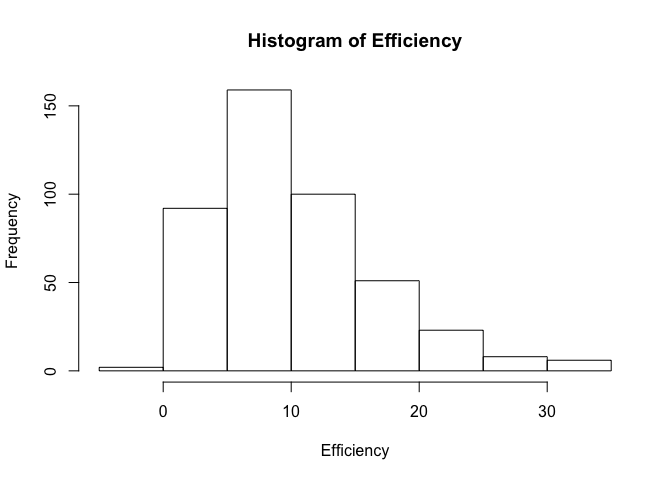
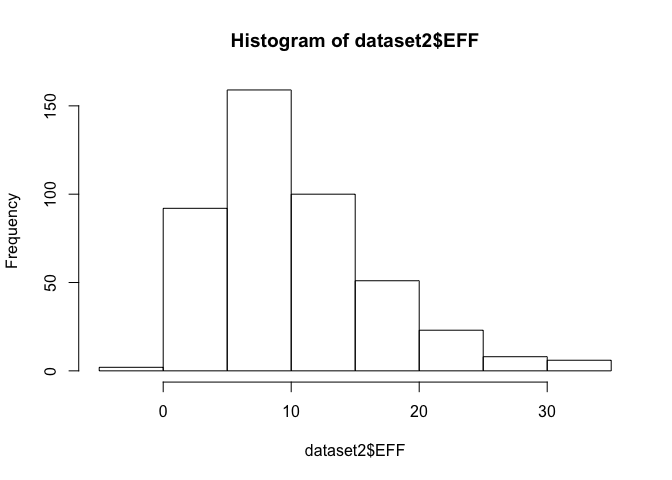
HW02, Progress #2

Changed region(s): [[0.3438, 0.0625, 0.7188, 0.125], [0.4375, 0.9062, 0.5938, 0.9688]]

diff --git a/hw02/hw02-WooSik_Lewis_-Kim.md b/hw02/hw02-WooSik_Lewis_-Kim.md
@@ -2,9 +2,9 @@ HW02: Basics of Data Frames
 ================
 Woo Sik (Lewis) Kim
 
-Importing the data set in different ways; first, using "read.csv()", then "read\_csv()":
+**Importing the data set in different ways; first, using "read.csv()", then "read\_csv()":**
 
-Using "read.csv()", and displaying the resulting data frame:
+• Using "read.csv()", and displaying the resulting data frame:
 
 ``` r
 dataset1 <- read.csv(file = "data/nba2017-player-statistics.csv",
@@ -48,7 +48,7 @@ str(dataset1)
     ##  $ BLK         : int  87 62 11 0 7 13 23 2 18 17 ...
     ##  $ TO          : int  116 77 88 0 25 210 79 4 68 39 ...
 
-Using "read\_csv()", and displaying the resulting data frame (I will be using the data set from read\_csv() for the remainder of the homework):
+• Using "read\_csv()", and displaying the resulting data frame (I will be using the data set from read\_csv() for the remainder of the homework):
 
 ``` r
 require(readr)
@@ -187,14 +187,14 @@ str(dataset2)
     ##   .. ..- attr(*, "class")= chr  "collector_guess" "collector"
     ##   ..- attr(*, "class")= chr "col_spec"
 
-Changing all instances of "R" (character) to "0" (integer) in the column "Experience":
+**Changing all instances of "R" (character) to "0" (integer) in the column "Experience":**
 
 ``` r
 dataset2[dataset2$Experience == "R", "Experience"] <- 0
 dataset2$Experience <- as.integer(dataset2$Experience)
 ```
 
-Computing and adding new columns to dataset2 to calculate EFF:
+**Computing and adding new columns to dataset2 to calculate EFF:**
 
 ``` r
 Missed_FG <- dataset2$FGA - dataset2$FGM
@@ -211,20 +211,12 @@ EFF <- (dataset2$PTS + dataset2$REB + dataset2$AST + dataset2$STL +
 
 dataset2 <- cbind(dataset2, EFF)
 
-Efficiency <- dataset2$EFF
-summary(Efficiency)
-```
-
-    ##    Min. 1st Qu.  Median    Mean 3rd Qu.    Max. 
-    ##  -0.600   5.452   9.090  10.137  13.247  33.840
-
-``` r
-hist(Efficiency)
+hist(dataset2$EFF)
 ```
 
 ![](hw02-WooSik_Lewis_-Kim_files/figure-markdown_github-ascii_identifiers/unnamed-chunk-4-1.png)
 
-Processing the EFF data to get the top 10 players, and their associated name, team, salary, and EFF values:
+**Processing the EFF data to get the top 10 players, and their associated name, team, salary, and EFF values:**
 
 ``` r
 desc_eff <- select(dataset2, Player, Team, Salary, EFF)
@@ -243,66 +235,116 @@ head(arrange(desc_eff, desc(dataset2$EFF)), 10)
     ## 9           Jimmy Butler  CHI 17552209 25.60526
     ## 10      Hassan Whiteside  MIA 22116750 25.36364
 
-Obtaining player(s) with a negative EFF value:
+**Obtaining player(s) with negative EFF value(s):**
 
 ``` r
-neg_eff <- select(dataset2, Player, EFF)
+neg_eff <- filter(select(dataset2, Player, EFF), dataset2$EFF < 0)
+str(neg_eff)
 ```
 
-> top 10 players in descending EFF order: Player(s) with a negative EFF value:
+    ## 'data.frame':    1 obs. of  2 variables:
+    ##  $ Player: chr "Patricio Garino"
+    ##  $ EFF   : num -0.6
 
-Calculating the correlation coefficients between EFF and all the variables used in the EFF formula (in order of ):
+• Top 10 players in descending EFF order: "Russell Westbrook," "James Harden," "Anthony Davis," "LeBron James," "Karl-Anthony Towns," "Kevin Durant," "Giannis Antetokounmpo," "DeMarcur Cousins," "Jimmmy Butler," "Hassan Whiteside."
+
+• Player(s) with a negative EFF value: "Patricio Garino: -0.6"
+
+**Calculating the correlation coefficients between EFF and all the variables used in the EFF formula (in order of PTS, REB, STL, AST, BLK, Missed\_FT, Missed\_FG, TO, GP), and adding them to the vector "corr\_coeff":**
 
 ``` r
-cor(dataset2$EFF, dataset2$PTS)
+corr_coeff <- c(cor(dataset2$EFF, dataset2$PTS), 
+                cor(dataset2$EFF,dataset2$REB),
+                cor(dataset2$EFF, dataset2$STL), 
+                cor(dataset2$EFF, dataset2$AST),
+                cor(dataset2$EFF, dataset2$BLK),
+                -1*cor(dataset2$EFF, dataset2$Missed_FT),
+                -1*cor(dataset2$EFF, dataset2$Missed_FG),
+                -1*cor(dataset2$EFF, dataset2$TO))
+sort(corr_coeff, decreasing = TRUE)
 ```
 
-    ## [1] 0.8588644
+    ## [1]  0.8588644  0.7634501  0.6957286  0.6689232  0.5679571 -0.7271456
+    ## [7] -0.7722477 -0.8003289
+
+**Creating a barchart with the correlations:**
 
 ``` r
-cor(dataset2$EFF, dataset2$REB)
+barplot(corr_coeff, main = "name", space = c(0, 1), beside=TRUE,
+        ylim = c(-1, 1), names = c("PTS", "REB", "STL", "AST", "BLK",
+                                   "Missed_FT", "Missed_FG", "TO"))
 ```
 
-    ## [1] 0.7634501
+![](hw02-WooSik_Lewis_-Kim_files/figure-markdown_github-ascii_identifiers/unnamed-chunk-8-1.png)
+
+**Creating a scatterplot of "Efficiency" vs. "Salary" using the entire NBA data set (dataset2):**
 
 ``` r
-cor(dataset2$EFF, dataset2$AST)
+plot(dataset2$EFF, dataset2$Salary, xlab = "Efficiency", ylab = "Salary")
+lines(lowess(dataset2$EFF, dataset2$Salary), col = "blue")
 ```
 
-    ## [1] 0.6689232
+![](hw02-WooSik_Lewis_-Kim_files/figure-markdown_github-ascii_identifiers/unnamed-chunk-9-1.png)
+
+Also, compute the linear correlation coefficient between them. What can you say about the relationship between these two variables?
+
+**Computing the linear correlation coefficient between "Efficiency" and "Salary" for ALL players:**
 
 ``` r
-cor(dataset2$EFF, dataset2$STL)
+cor(dataset2$EFF, dataset2$Salary)
 ```
 
-    ## [1] 0.6957286
+    ## [1] 0.655624
+
+• The relationship between efficiency and salary for all players seem to be .
+
+**Selecting players who have MPG values of more than 20, and creating data frame "players2":**
 
 ``` r
-cor(dataset2$EFF, dataset2$BLK)
+players2 <- select(filter(dataset2, dataset2$MPG > 20), Player, Salary, EFF)
+str(players2)
 ```
 
-    ## [1] 0.5679571
+    ## 'data.frame':    231 obs. of  3 variables:
+    ##  $ Player: chr  "Al Horford" "Amir Johnson" "Avery Bradley" "Isaiah Thomas" ...
+    ##  $ Salary: num  26540100 12000000 8269663 6587132 6286408 ...
+    ##  $ EFF   : num  19.5 10.9 16.3 24.7 16.1 ...
+
+**Creating a scatterplot between "Efficiency" and "Salary" using the data frame "players2" (players whose MPG values &gt;20):**
 
 ``` r
-cor(dataset2$EFF, dataset2$Missed_FG)
+plot(players2$EFF, players2$Salary, xlab = "Efficiency", ylab = "Salary")
+lines(lowess(players2$EFF, players2$Salary), col = "blue")
 ```
 
-    ## [1] 0.7722477
+![](hw02-WooSik_Lewis_-Kim_files/figure-markdown_github-ascii_identifiers/unnamed-chunk-12-1.png)
+
+**Computing the linear correlation coefficient between "Efficiency" and "Salary" for players whose MPG values &gt; 20:**
 
 ``` r
-cor(dataset2$EFF, dataset2$Missed_FT)
+cor(players2$EFF, players2$Salary)
 ```
 
-    ## [1] 0.7271456
+    ## [1] 0.5367224
 
-``` r
-cor(dataset2$EFF, dataset2$TO)
-```
+What can you say about the relationship between these two variables for the set of “more established players”?
 
-    ## [1] 0.8003289
+• The relationship between efficiency and salary for "more established players" seem to be
 
-``` r
-cor(dataset2$EFF, dataset2$GP)
-```
+**Comments and Reflections (Answered in Order)**
 
-    ## [1] 0.4773648
+• The hardest part of this class so far has been getting used to R's syntax, and the different style of programming it entails compared to things like Python and Java.
+
+• Combining functions such as filter() and select(), and using "new" functions such as sort() from online documentations was easy.
+
+• Yes, I needed help from office hours with debugging and properly creating charts/graphs.
+
+• This homework took about 3 hours to complete (spread out over multiple days).
+
+• The most time consuming part was properly importing the .csv data set.
+
+• No, I think I understood everything fully once I learned how to do it.
+
+• Yes, some syntactical errors caused frustration.
+
+• No, not necessarily for this homework. Although, organizing "unorganized" NBA data and visualizing them was pretty great.
